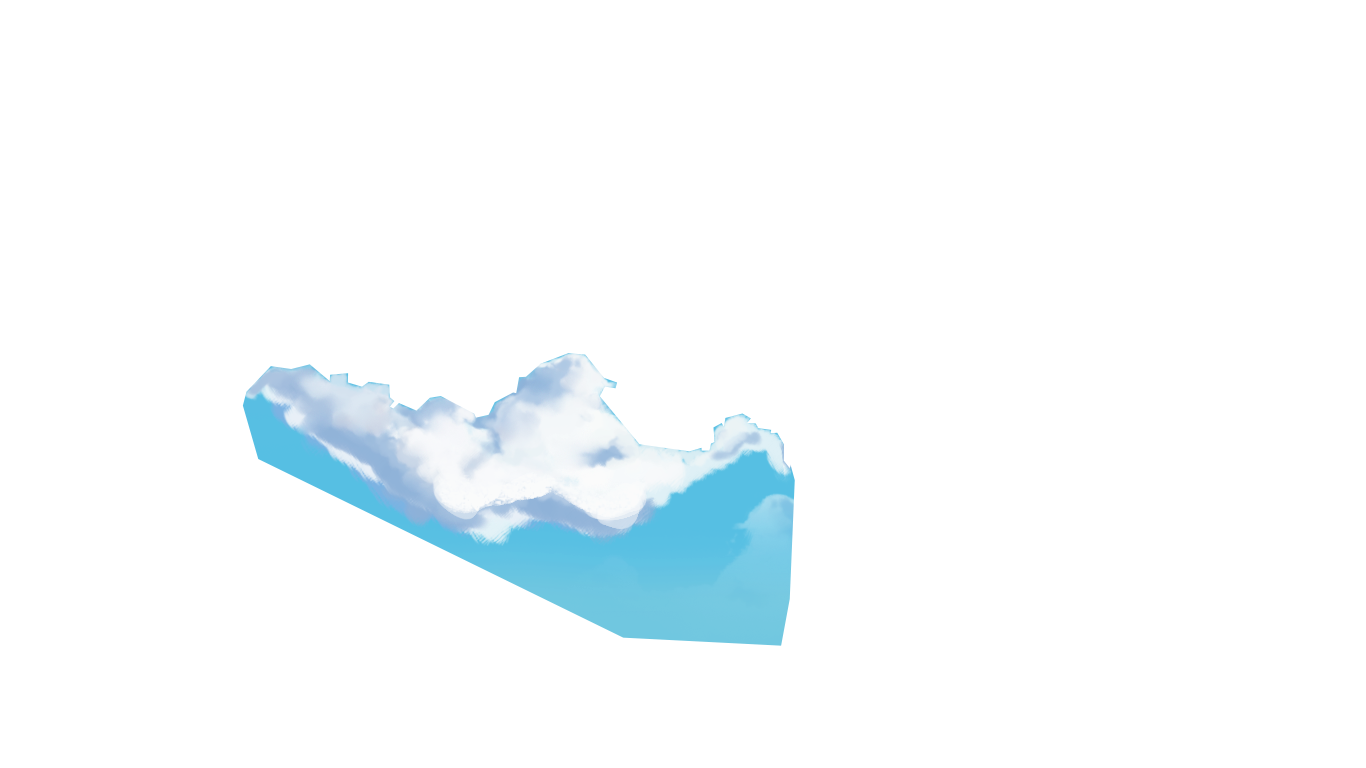
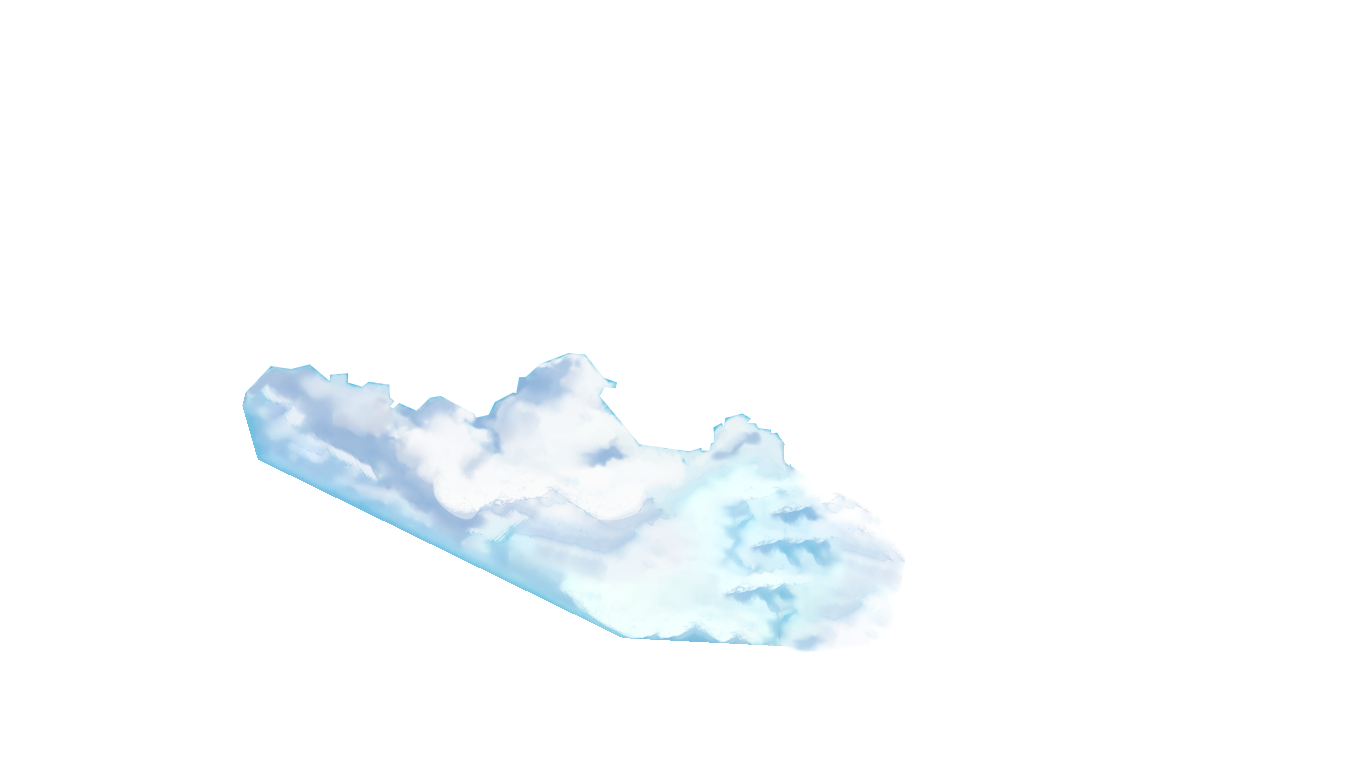
modified:   img/cloud1.png 	modified:   img/cloud2.png 	new file:   img/cloud3.png 	new file:   img/dummy-cloud.png 	modified:   img/ground.png 	modified:   img/mountain.png 	new file:   img/sky.png 	modified:   index.html 	modified:   js/main.js 	modified:   style.css

Changed region(s): [[0.1537, 0.5, 0.6764, 0.8438]]

diff --git a/index.html b/index.html
@@ -11,15 +11,10 @@
 
     <link href="https://fonts.googleapis.com/css2?family=Oswald&display=swap" rel="stylesheet">
     <link href="https://fonts.googleapis.com/css2?family=Lato&display=swap" rel="stylesheet">
-    <script src="https://kit.fontawesome.com/a076d05399.js"></script>
-
-    <style>
-
-    </style>
 </head>
 
 <body>
-    <div id="preloader"></div>
+    <!-- <div id="preloader"></div> -->
 
     <div class="nav-mobile" id="nav-mobile">
         <input type="checkbox" id="active">
@@ -54,12 +49,10 @@
     <section class="sec" id="about">
         <div class="container">
             <h2>MERAKI STUDIO</h2>
-            <div class="divider"></div>
             <p>
                 Lorem, ipsum dolor sit amet consectetur adipisicing elit. Animi nulla dignissimos reiciendis, error
                 doloremque voluptatibus blanditiis eveniet illum nihil dolorem!
             </p>
-            <div class="divider"></div>
         </div>
         <div class="services">
             <div class="ag-format-container">
@@ -118,8 +111,9 @@
 
     <section class="layer" id="layer">
         <img src="img/layer background1.png" alt="" id="bg">
-        <img src="img/cloud1.png" alt="" id="cloud1">
+        <!-- <img src="img/dummy-cloud.png" alt="" id="dummy"> -->
         <img src="img/cloud2.png" alt="" id="cloud2">
+        <img src="img/cloud1.png" alt="" id="cloud1">
         <img src="img/mountain.png" alt="" id="mountain">
         <img src="img/ground.png" alt="" id="ground">
         <img src="img/tree.png" alt="" id="tree">
@@ -147,6 +141,7 @@
     <script src="./js/youtube.js"></script>
     <script src="./js/fslightbox.min.js"></script>
     <script src="./js/tilt.js"></script>
+    <script src="https://kit.fontawesome.com/a076d05399.js"></script>
 </body>
 
 </html>

diff --git a/style.css b/style.css
@@ -220,8 +220,8 @@ input[type="checkbox"] {
 /* about */
 .sec {
   position: relative;
-  background: var(--purple);
-  padding: 100px 50px 0 50px;
+  background: #112151;
+  padding: 50px 50px 70px 50px;
 }
 
 .sec h2 {
@@ -258,14 +258,19 @@ input[type="checkbox"] {
 /* Slider */
 .work {
   position: relative;
-  background: linear-gradient(
+  /* background: linear-gradient(
     180deg,
     rgba(48, 15, 42, 1) 0%,
     rgba(55, 65, 117, 1) 60%,
     rgba(62, 118, 195, 1) 100%
-  );
-  padding: 100px 50px 100px 50px;
-  min-height: 100vh;
+  ); */
+  background: #112151;
+  padding: 60px 50px 100px 50px;
+  /* min-height: 100vh; */
+}
+
+#dummy {
+  transform: rotate(0deg);
 }
 
 .work h2 {
@@ -350,7 +355,7 @@ input[type="checkbox"] {
 
 /* Contact */
 .contact {
-  background-color: var(--purple);
+  background-color: #112151;
   position: relative;
   color: var(--white);
   min-height: 60vh;
@@ -459,8 +464,8 @@ input[type="checkbox"] {
     display: flex;
     justify-content: center;
     align-items: center;
-    background-color: var(--purple);
-    border-bottom: 1px solid var(--green);
+    background-color: #112151;
+    border-bottom: 0.5px solid var(--green);
     z-index: 99;
   }
   .navigation a {
@@ -468,6 +473,7 @@ input[type="checkbox"] {
     color: var(--green);
     padding: 6px 15px;
     margin: 0 10px;
+    font-size: 22px;
     font-weight: 600;
     font-family: "geometos", sans-serif;
     transition: all 0.2s ease-in;
@@ -532,7 +538,8 @@ input[type="checkbox"] {
 
   /* Contact */
   .contact {
-    min-height: 90vh;
+    padding: 0 0 80px 0;
+    min-height: 50vh;
   }
 
   .contact .container {

diff --git a/js/main.js b/js/main.js
@@ -43,11 +43,12 @@ $(document).ready(function () {
       setTimeout(() => {
         $("#preloader").remove();
       }, 300);
-    }, 3000);
+    }, 1);
   });
 
   if (mediaQuery.matches) {
     $("#nav-mobile").hide();
+
     // Parallax Animation
     $(document).on("scroll", () => {
       let value = window.scrollY;
@@ -68,15 +69,19 @@ $(document).ready(function () {
       $("#midground3").css("left", `${value * 0.2}px`);
 
       let newVal = value - 2500;
+      $("#dummy").css("transform", `rotate(${newVal * 0.05}deg)`);
       if (newVal >= 0) {
-        $("#cloud1").css("left", `${newVal * -0.2}px`);
-        $("#cloud1").css("top", `${newVal * 0.4}px`);
+        $("#cloud1").css({
+          // left: `${newVal * -0.05}px`,
+          top: `${newVal * -0.1}px`,
+        });
 
-        $("#cloud2").css("left", `${newVal * 0.4}px`);
-        $("#cloud2").css("top", `${newVal * 0.4}px`);
+        $("#cloud2").css({
+          // left: `${newVal * -0.17}px`,
+          top: `${newVal * -0.1}px`,
+        });
 
-        $("#mountain").css("top", `${newVal * 0.3}px`);
-        $("#ground").css("top", `${newVal * 0.2}px`);
+        $("#ground").css("top", `${newVal * 0.13}px`);
         $("#hill-tree").css({
           top: `${newVal * 0.1}px`,
           left: `${newVal * -0.05}px`,
